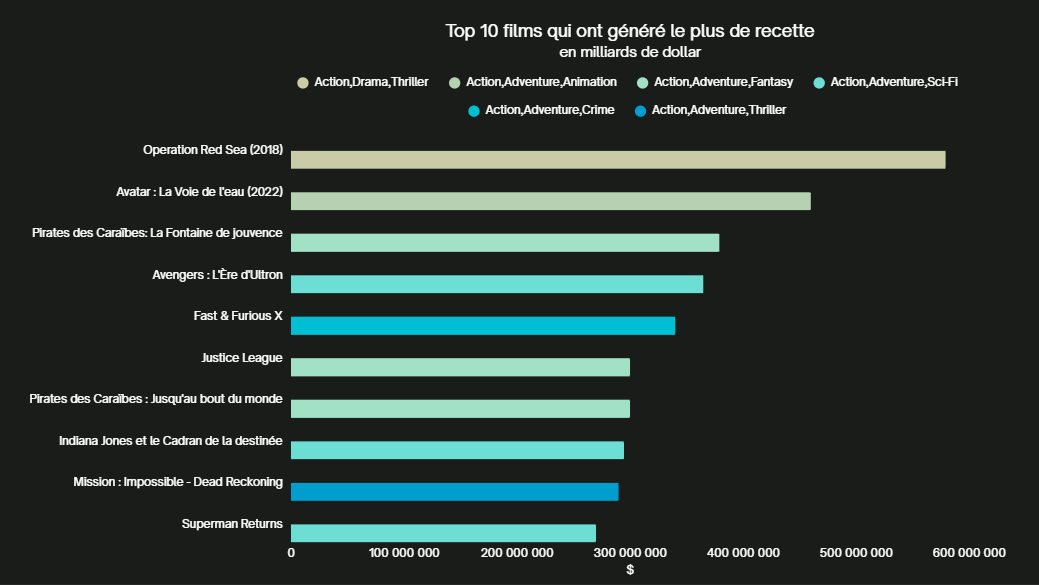
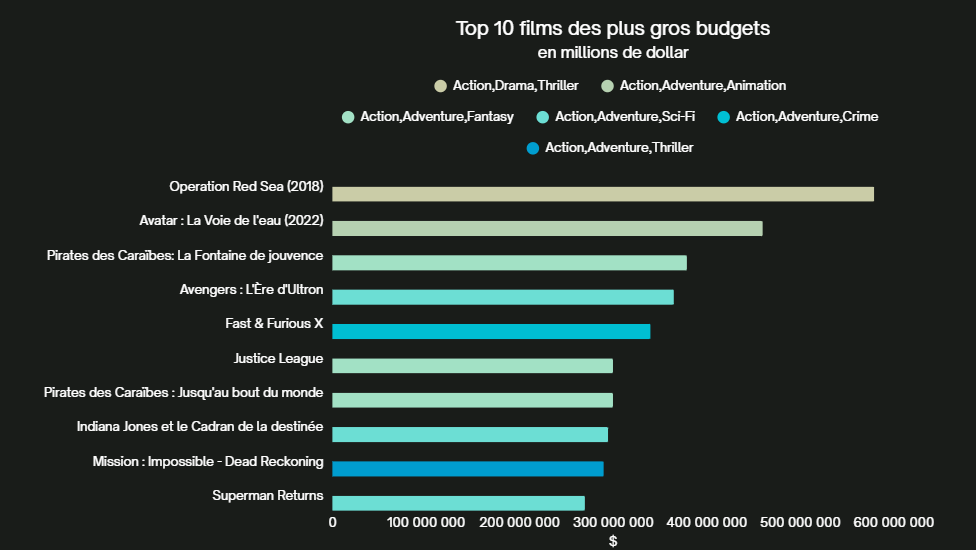
Still with my KPI

Changed region(s): [[0.0307, 0.0309, 0.9836, 1.0], [0.6762, 0.4018, 0.7992, 0.4327]]

diff --git a/app.py b/app.py
@@ -191,7 +191,7 @@ if selected == "FILMS":
 
 
 elif selected == "PREFERENCES":
-        st.title("Recommandations par préférences ˙✧🍿")
+        st.title("Recommandations par préférences ˙✧")
         
 
         realisateur = st.selectbox(
@@ -302,12 +302,12 @@ elif selected == "KPI":
         st.title("Indicateurs Clés de Performance")
     
         options = {
-        "canva1": "image/canva1.png",
-        "canva2": "image/canva2.png",
-        "canva3": "image/canva3.png",
-        "canva4": "image/canva4.png",
-        "canva5": "image/canva5.png",
+        "Top 10 films qui ont généré le plus de recette": "image/canva1.png",
+        "Top 10 films des plus gros budgets": "image/canva2.png",
+        "Films les mieux notés ": "image/canva3.png",
+        "Répartition des films par années de sortie": "image/canva4.png",
+        "Films les plus populaires": "image/canva5.png",
     }
     
-        choix = st.selectbox("Sélectionnez une image :", list(options.keys()))
+        choix = st.selectbox("Sélectionnez un KPI :", list(options.keys()))
         st.image(options[choix], use_column_width=True)
